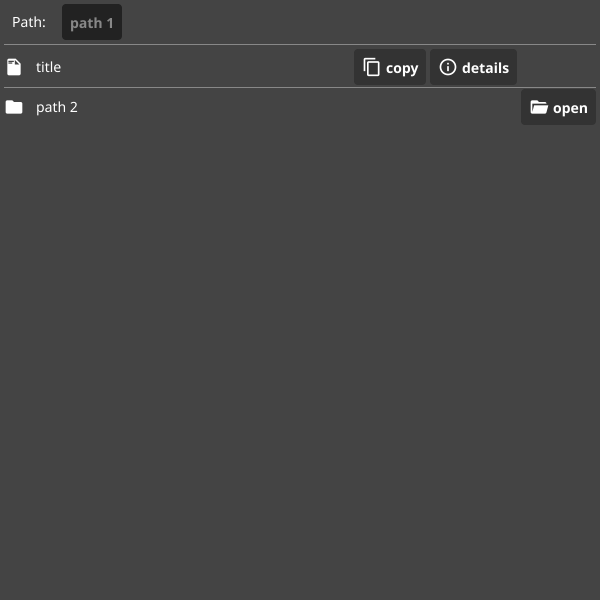
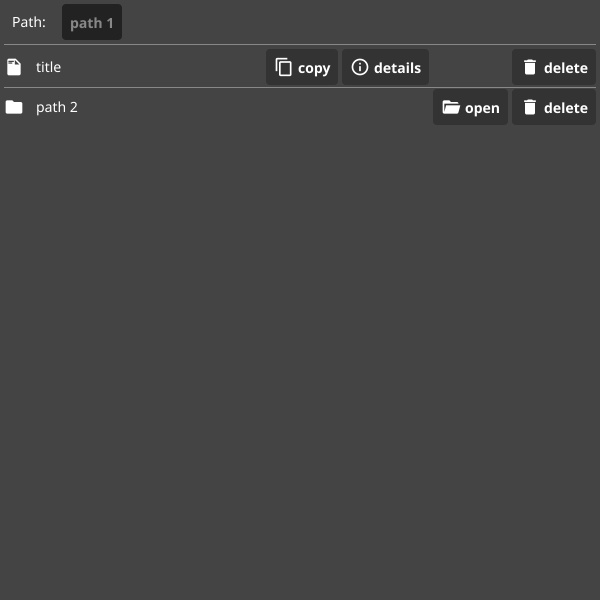
[ENH-22] Adding delete button
Note that this currently just deletes entries on the UI and they don't get persisted

diff --git a/internal/ui/navview_test.go b/internal/ui/navview_test.go
@@ -54,14 +54,8 @@ func TestNavView_DataChanged(t *testing.T) {
 
 	secretReader := mock_keepass.NewMockSecretReader(mockCtrl)
 
-	secretsGroupedByPath := make(map[string][]keepass.SecretEntry)
-	secretsGroupedByPath["path 1"] = []keepass.SecretEntry{{Title: "title", Group: "path 1", Username: "username", Password: "password", Url: "url", Notes: "notes"}}
-	paths := []string{"path 1"}
 	secretReader.EXPECT().ReadEntriesFromContentGroupedByPath().Times(1).Return(
-		keepass.SecretsDB{
-			EntriesByPath: secretsGroupedByPath,
-			PathsInOrder:  paths,
-		},
+		secretsDBForTesting(),
 		nil,
 	)
 
@@ -86,19 +80,8 @@ func TestNavView_DataChanged_two_groups(t *testing.T) {
 
 	secretReader := mock_keepass.NewMockSecretReader(mockCtrl)
 
-	secretsGroupedByPath := make(map[string][]keepass.SecretEntry)
-	secretsGroupedByPath["path 1"] = []keepass.SecretEntry{{Title: "title", Group: "path 1", Username: "username", Password: "password", Url: "url", Notes: "notes"},
-		{Title: "path 2", Group: "path 1", Notes: "", IsGroup: true}}
-	secretsGroupedByPath["path 2"] = []keepass.SecretEntry{
-		{Title: "title 2", Group: "path 2", Username: "username 2", Password: "password 2", Url: "url 2", Notes: "notes 2"},
-		{Title: "title 3", Group: "path 2", Username: "username 3", Password: "password 3", Url: "url 3", Notes: "notes 3"},
-	}
-	paths := []string{"path 1", "path 2"}
 	secretReader.EXPECT().ReadEntriesFromContentGroupedByPath().Times(1).Return(
-		keepass.SecretsDB{
-			EntriesByPath: secretsGroupedByPath,
-			PathsInOrder:  paths,
-		},
+		secretsDBWithTwoGroups(),
 		nil,
 	)
 
@@ -113,4 +96,96 @@ func TestNavView_DataChanged_two_groups(t *testing.T) {
 	test.AssertImageMatches(t, "navView_two_groups.png", w.Canvas().Capture())
 }
 
-// TODO add test navigating to a nested folder
+func TestNavView_NavigateToNestedFolder(t *testing.T) {
+	w := test.NewWindow(container.NewWithoutLayout())
+	mockCtrl := gomock.NewController(t)
+	defer mockCtrl.Finish()
+
+	dbPathAndPassword := &DBPathAndPassword{UriID: "path", Password: "password", ContentInBytes: []byte{}}
+
+	secretReader := mock_keepass.NewMockSecretReader(mockCtrl)
+
+	secretReader.EXPECT().ReadEntriesFromContentGroupedByPath().Times(1).Return(
+		secretsDBWithTwoGroups(),
+		nil,
+	)
+
+	navView := CreateNavView(dbPathAndPassword, nil, w, func(d DBPathAndPassword) keepass.SecretReader {
+		return secretReader
+	})
+	w.SetContent(navView.fullContainer)
+	w.Resize(fyne.NewSize(600, 600))
+
+	navView.DataChanged()
+	navView.fullContainer.Refresh()
+
+	test.AssertImageMatches(t, "navView_two_groups.png", w.Canvas().Capture())
+
+	// Ideally we would simulate a click from the UI but I struggle to find the right open button from the list
+	navView.UpdateNavView("path 2")
+
+	test.AssertImageMatches(t, "navView_two_groups_nested_group.png", w.Canvas().Capture())
+}
+
+func TestNavView_DeleteFirstEntry(t *testing.T) {
+	w := test.NewWindow(container.NewWithoutLayout())
+	mockCtrl := gomock.NewController(t)
+	defer mockCtrl.Finish()
+
+	dbPathAndPassword := &DBPathAndPassword{UriID: "path", Password: "password", ContentInBytes: []byte{}}
+
+	secretReader := mock_keepass.NewMockSecretReader(mockCtrl)
+
+	secretsDBWithTwoGroups := secretsDBWithTwoGroups()
+	secretReader.EXPECT().ReadEntriesFromContentGroupedByPath().Times(1).Return(
+		secretsDBWithTwoGroups,
+		nil,
+	)
+
+	navView := CreateNavView(dbPathAndPassword, nil, w, func(d DBPathAndPassword) keepass.SecretReader {
+		return secretReader
+	})
+	w.SetContent(navView.fullContainer)
+	w.Resize(fyne.NewSize(600, 600))
+
+	navView.DataChanged()
+	navView.fullContainer.Refresh()
+
+	test.AssertImageMatches(t, "navView_two_groups.png", w.Canvas().Capture())
+
+	// Ideally we would simulate a click from the UI but I struggle to find the right open button from the list
+	secretsDBWithTwoGroups.DeleteSecretEntry(keepass.SecretEntry{
+		Title: "title 2", Group: "path 2", Username: "username 2",
+		Password: "password 2", Url: "url 2", Notes: "notes 2"})
+
+	navView.UpdateNavView("path 2")
+
+	test.AssertImageMatches(t, "navView_two_groups_nested_group_with_one_entry_deleted.png", w.Canvas().Capture())
+}
+
+func secretsDBForTesting() keepass.SecretsDB {
+	secretsGroupedByPath := make(map[string][]keepass.SecretEntry)
+	secretsGroupedByPath["path 1"] = []keepass.SecretEntry{{Title: "title", Group: "path 1", Username: "username", Password: "password", Url: "url", Notes: "notes"}}
+	paths := []string{"path 1"}
+	secretsDB := keepass.SecretsDB{
+		EntriesByPath: secretsGroupedByPath,
+		PathsInOrder:  paths,
+	}
+	return secretsDB
+}
+
+func secretsDBWithTwoGroups() keepass.SecretsDB {
+	secretsGroupedByPath := make(map[string][]keepass.SecretEntry)
+	secretsGroupedByPath["path 1"] = []keepass.SecretEntry{{Title: "title", Group: "path 1", Username: "username", Password: "password", Url: "url", Notes: "notes"},
+		{Title: "path 2", Group: "path 1", Notes: "", IsGroup: true}}
+	secretsGroupedByPath["path 2"] = []keepass.SecretEntry{
+		{Title: "title 2", Group: "path 2", Username: "username 2", Password: "password 2", Url: "url 2", Notes: "notes 2"},
+		{Title: "title 3", Group: "path 2", Username: "username 3", Password: "password 3", Url: "url 3", Notes: "notes 3"},
+	}
+	paths := []string{"path 1", "path 2"}
+	secretsDB := keepass.SecretsDB{
+		EntriesByPath: secretsGroupedByPath,
+		PathsInOrder:  paths,
+	}
+	return secretsDB
+}

diff --git a/internal/ui/navview.go b/internal/ui/navview.go
@@ -85,7 +85,8 @@ func createListNav(listOfSecretsForPath []keepass.SecretEntry, detailedView *Det
 			copyButton := widget.NewButtonWithIcon("copy", theme.ContentCopyIcon(), func() {})
 			showInfoButton := widget.NewButtonWithIcon("details", theme.InfoIcon(), func() {})
 			openGroupButton := widget.NewButtonWithIcon("open", theme.FolderOpenIcon(), func() {})
-			buttons := container.NewHBox(copyButton, showInfoButton, openGroupButton)
+			deleteButton := widget.NewButtonWithIcon("delete", theme.DeleteIcon(), func() {})
+			buttons := container.NewHBox(copyButton, showInfoButton, openGroupButton, deleteButton)
 			templateLabel := widget.NewLabel("template")
 			iconAndLabel := container.NewHBox(widget.NewIcon(theme.FolderIcon()), templateLabel)
 			container := container.NewBorder(nil, nil, iconAndLabel, buttons, nil)
@@ -113,6 +114,14 @@ func createListNav(listOfSecretsForPath []keepass.SecretEntry, detailedView *Det
 			copyPasswordButton := buttons.Objects[0].(*widget.Button)
 			showInfoButton := buttons.Objects[1].(*widget.Button)
 			openGroupButton := buttons.Objects[2].(*widget.Button)
+			deleteButton := buttons.Objects[3].(*widget.Button)
+			deleteButton.OnTapped = func() {
+				deleted := navView.secretsDB.DeleteSecretEntry(secret)
+				if deleted {
+					navView.UpdateNavView(secret.Group)
+				}
+			}
+
 			if secret.IsGroup {
 				icon.SetResource(theme.FolderIcon())
 				label.SetText(secret.Title)
